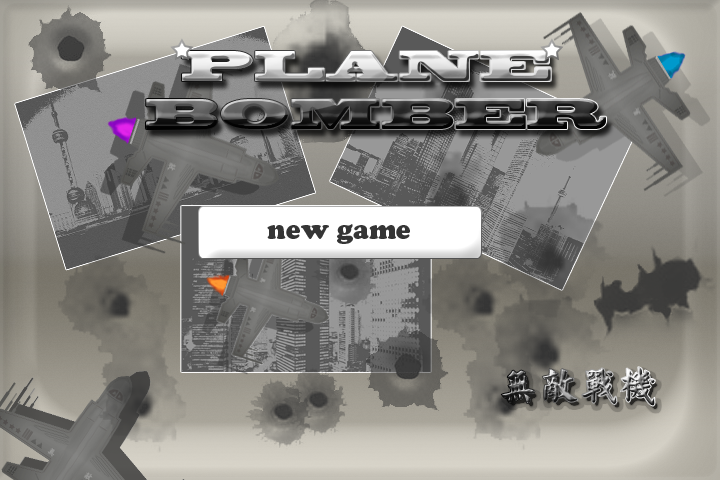
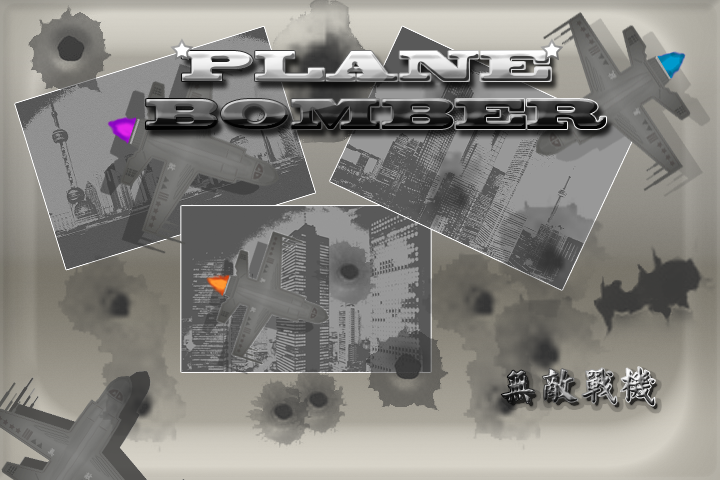
added screen

Changed region(s): [[0.275, 0.4062, 0.6722, 0.5625]]

diff --git a/src/com/emptyyourmind/activites/MainScreen.java b/src/com/emptyyourmind/activites/MainScreen.java
@@ -1,0 +1,72 @@
+package com.emptyyourmind.activites;
+
+import org.anddev.andengine.engine.Engine;
+import org.anddev.andengine.engine.camera.Camera;
+import org.anddev.andengine.engine.options.EngineOptions;
+import org.anddev.andengine.engine.options.EngineOptions.ScreenOrientation;
+import org.anddev.andengine.engine.options.resolutionpolicy.RatioResolutionPolicy;
+import org.anddev.andengine.entity.scene.Scene;
+import org.anddev.andengine.entity.scene.background.SpriteBackground;
+import org.anddev.andengine.entity.sprite.Sprite;
+import org.anddev.andengine.opengl.texture.Texture;
+import org.anddev.andengine.opengl.texture.TextureOptions;
+import org.anddev.andengine.opengl.texture.region.TextureRegion;
+import org.anddev.andengine.opengl.texture.region.TextureRegionFactory;
+import org.anddev.andengine.ui.activity.BaseGameActivity;
+
+import com.emptyyourmind.utils.JetStrategyUtil;
+
+/**
+ * @author Self-Less
+ *
+ */
+public class MainScreen extends BaseGameActivity
+{
+	private static final String BG_MAIN = "main_screen.png";
+	private static final String BUTTON_NEW_GAME = "new_game.png";
+	private Camera camera;
+	private Scene scene;
+	private Texture textureMain;
+	private Texture textureButton;
+	private TextureRegion textureRegionMain;
+	private TextureRegion textureRegionButton;
+	
+	@Override
+	public void onLoadComplete()
+	{
+	}
+
+	@Override
+	public Engine onLoadEngine()
+	{
+		camera = new Camera(0, 0, JetStrategyUtil.CAMERA_WIDTH, JetStrategyUtil.CAMERA_HEIGHT);
+		return new Engine(new EngineOptions(true, ScreenOrientation.LANDSCAPE, new RatioResolutionPolicy(JetStrategyUtil.CAMERA_WIDTH, JetStrategyUtil.CAMERA_HEIGHT), camera));
+	}
+
+	@Override
+	public void onLoadResources()
+	{
+		TextureRegionFactory.setAssetBasePath("gfx/");
+		textureMain = new Texture(1024, 512, TextureOptions.BILINEAR_PREMULTIPLYALPHA);
+		textureButton = new Texture(512, 64, TextureOptions.BILINEAR_PREMULTIPLYALPHA);
+		textureRegionMain = TextureRegionFactory.createFromAsset(textureMain, this, BG_MAIN, 0, 0);
+		textureRegionButton = TextureRegionFactory.createFromAsset(textureButton, this, BUTTON_NEW_GAME, 0, 0);
+		
+		mEngine.getTextureManager().loadTextures(textureMain, textureButton);
+				
+	}
+
+	@Override
+	public Scene onLoadScene()
+	{
+		scene = new Scene(1);
+		scene.setBackground(new SpriteBackground(new Sprite(0, 0, textureRegionMain)));
+		scene.attachChild(new Sprite(200, 160, textureRegionButton));
+		scene.attachChild(new Sprite(200, 223, textureRegionButton.clone()));
+		scene.attachChild(new Sprite(200, 286, textureRegionButton.clone()));
+		scene.attachChild(new Sprite(200, 349, textureRegionButton.clone()));
+		return scene;
+	}
+
+
+}
